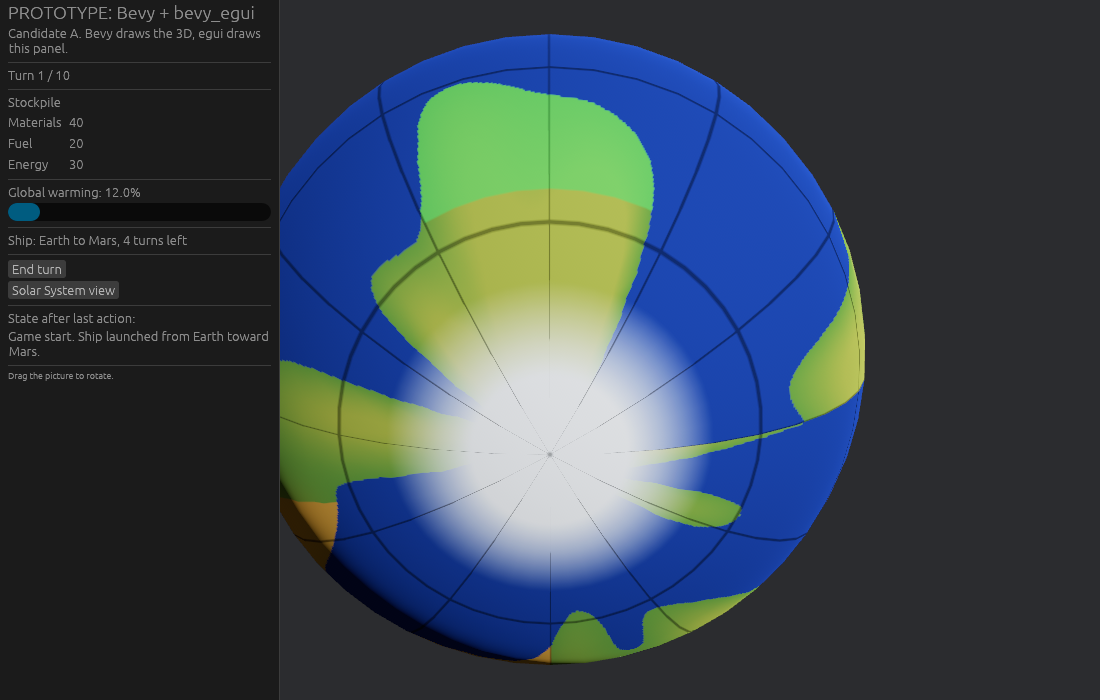
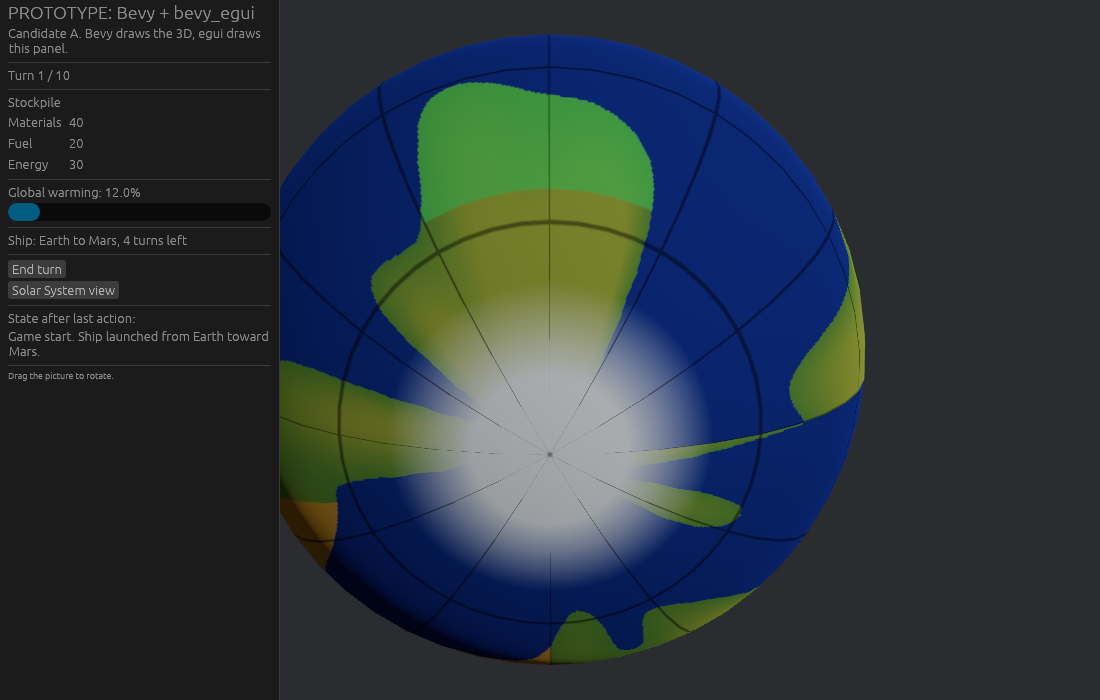
Prototype: tone down the Bevy directional light
9,000 lux over-exposed the globe against the default camera exposure;
2,500 lux keeps the texture readable. Re-captured both Bevy views.

Claude-Session: https://claude.ai/code/session_01WbkwzBDUoePFQGc9WwKkru

diff --git a/prototype/bevy-views/src/main.rs b/prototype/bevy-views/src/main.rs
@@ -222,7 +222,7 @@ fn setup(
     ));
 
     commands.spawn((
-        DirectionalLight { illuminance: 9000.0, ..default() },
+        DirectionalLight { illuminance: 2500.0, ..default() },
         Transform::from_xyz(4.0, 5.0, 6.0).looking_at(Vec3::ZERO, Vec3::Y),
     ));
     commands.spawn((
